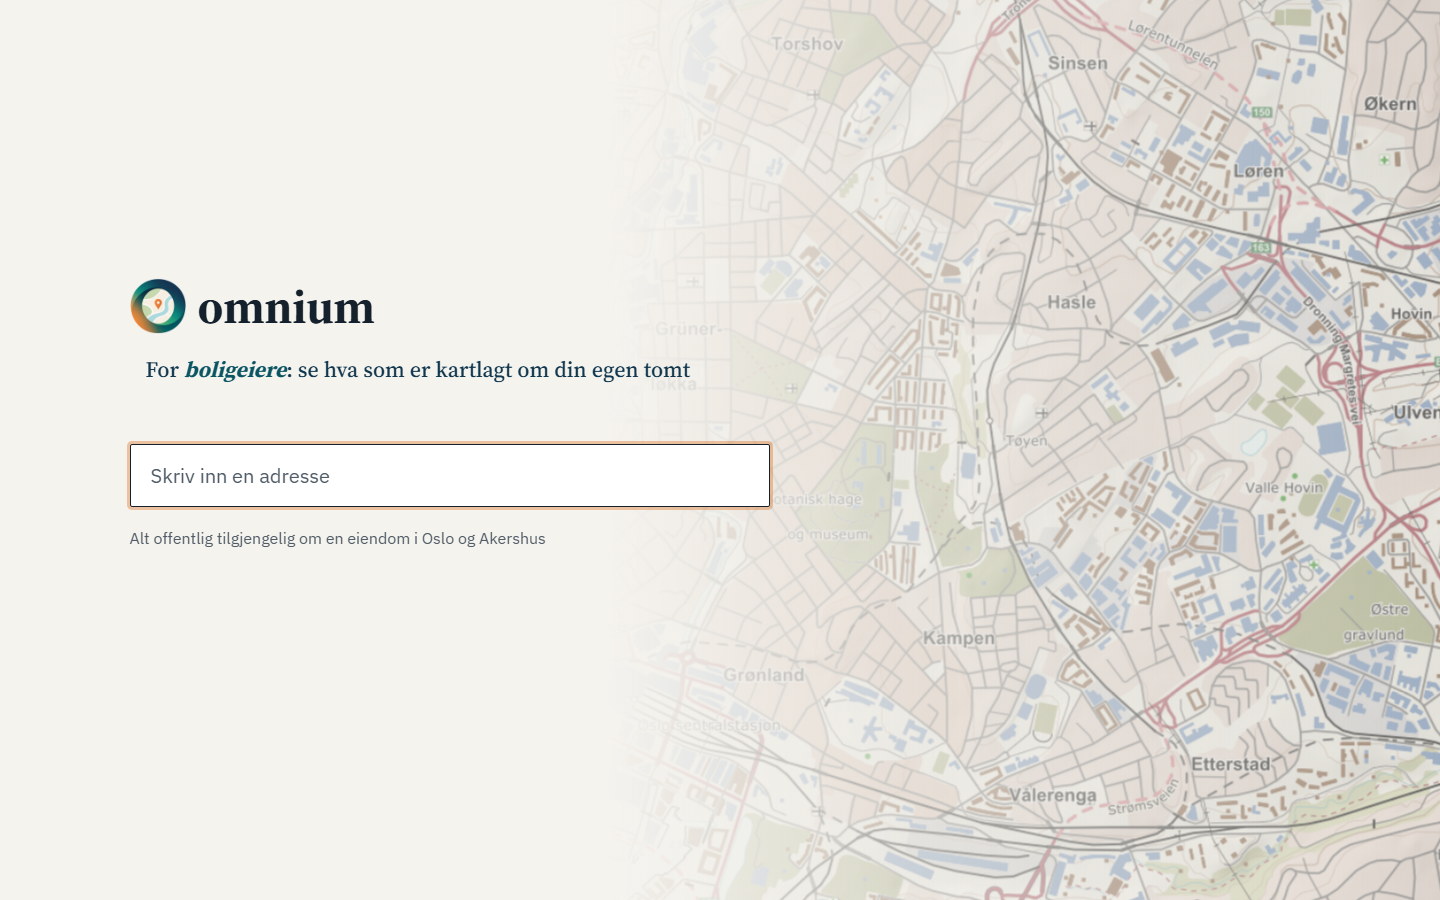
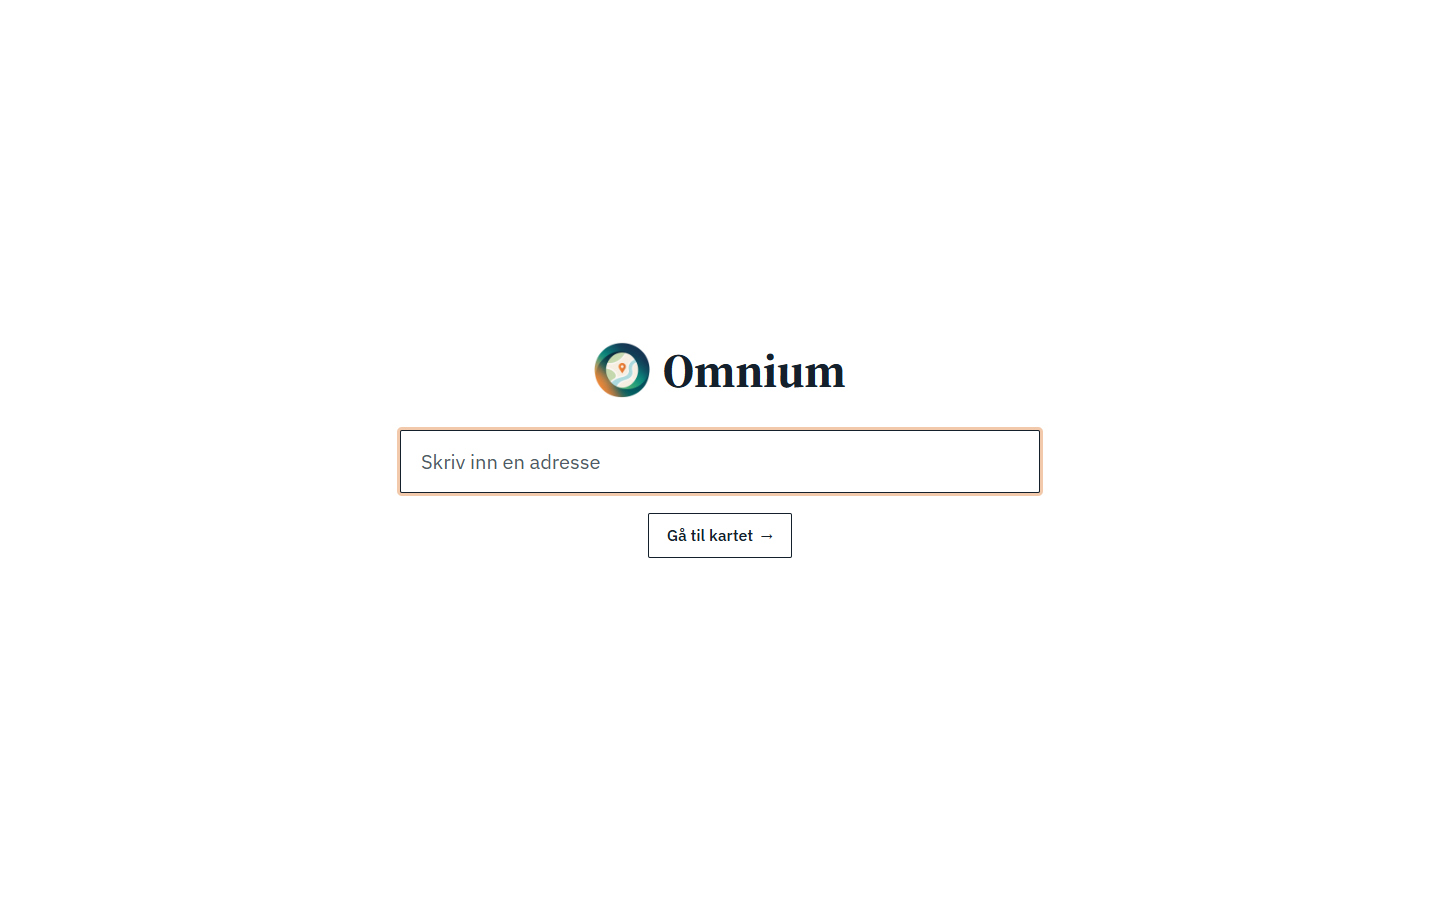
DEMO.md and TEST_ADDRESSES.md: new scores (60 vs 14) and screenshots 1-5
Done for Even by Sverre. Grevlingåsen is now 60 (radon, plus a low
warning for NVE's quick-clay awareness area), Arendalsgata 14. Pitch,
address table, readiness table, timing, AI-summary check, "tretti
datasett" and setup time updated. Perspective tabs are on the page, so
the perspective line is no longer conditional. All five screenshots
retaken with Edge (new start page, perspective tabs, Kartlag open in 5).

diff --git a/docs/DEMO.md b/docs/DEMO.md
@@ -12,11 +12,11 @@ Two homes, both in Bærum/Oslo, both near a bus and a school. On paper they look
 
 | Role | Address | Id | What it shows |
 |---|---|---|---|
-| Start: the calm case | Grevlingåsen 17, 1362 Hosle | `3201-1574-17` | Overall **67**, held down a little by one warning: høy radonaktsomhet (Grunn og geologi 33, the weakest category). Naturfare 100: no rockfall, debris-slide, avalanche or storm-surge area, no noise zone. NVE has not mapped quick clay or flood here, so both show "Ikke kartlagt her" (neutral, not scored). Busiest stop within 500 m: Jegeråsen, 212 m, 161 departures a weekday. School 256 m, kindergarten 226 m. Perspectives: Bo her 64, Bygge her 65, Familie 67, Pendler 91. |
-| Contrast: the hidden risk | Arendalsgata 22, 0463 Oslo | `0301-10223-22` | Overall **13**, held down by three serious warnings: quick-clay zone with faregrad **høy** (NVE), meget høy radonaktsomhet and road noise 65–70 dB. Also marine clay and a polluted-ground site 17 m away. Naturfare 24. Nearest stop 31 m, kindergarten 40 m, school 146 m. Busiest stop within 500 m: Sagene, 1154 departures. Perspectives: Bo her 13, Bygge her 15, Familie 13, **Pendler 100**. |
-| Backup / extra | Nedre Rælingsveg 148, 2005 Rælingen | `3224-8900-148` | Overall 49. Two warnings: 200-year flood zone and red road noise zone. Perspectives: Bo her 46, Bygge her 62, Familie 46, Pendler 89. |
+| Start: the calm case | Grevlingåsen 17, 1362 Hosle | `3201-1574-17` | Overall **60**, capped by one warning: høy radonaktsomhet (Grunn og geologi 31, the weakest category). One smaller warning ("Merk"): it lies in NVE's coarse **aktsomhetsområde for kvikkleireskred**, so the ground should be checked before building; NGU says "Ofte marin leire". It is *not* in a quick-clay hazard zone: NVE has made no hazard-zone map for quick clay or flood here, so both show "Ikke kartlagt her" (neutral, not scored). Naturfare 92: no flood-awareness, rockfall, debris-slide, avalanche or storm-surge area; no road, rail or aircraft noise zone. Busiest stop within 500 m: Jegeråsen, 212 m, 161 departures a weekday. School 256 m, kindergarten 226 m, Kiwi Hosle 519 m. Neighbourhood: Hosle nord 06, 220 people. Perspectives: Bo her 64, Bygge her 59, Familie 66, Pendler 91. |
+| Contrast: the hidden risk | Arendalsgata 22, 0463 Oslo | `0301-10223-22` | Overall **14**, held down by three serious warnings: quick-clay zone "Myraløkka" with faregrad **høy** (NVE), meget høy radonaktsomhet and road noise 65–70 dB. Smaller warnings: marine clay ("Svært ofte marin leire"), quick-clay awareness area, a polluted-ground site 17 m away. Naturfare 24. Nearest stop 31 m, kindergarten 40 m, school 146 m, Extra Bjølsen 92 m, pharmacy 167 m. Busiest stop within 500 m: Sagene, 1154 departures. Perspectives: Bo her 15, Bygge her 15, Familie 16, **Pendler 100**. |
+| Backup / extra | Nedre Rælingsveg 148, 2005 Rælingen | `3224-8900-148` | Overall 51. Two serious warnings: 200-year flood zone and red road noise zone; smaller: flood and quick-clay awareness areas. Perspectives: Bo her 50, Bygge her 56, Familie 52, Pendler 89. |
 
-Numbers above are from the profile on 2026-11-07, after Lukas's soft caps and perspective scores. Check them again before the demo (see checklist): they change when data or the rating changes.
+Numbers above are from the profile on 2026-11-07 (afternoon), after Sverre's new datasets (quick-clay and flood awareness, marine clay, rail and aircraft noise, shops, pharmacies, doctors, grunnkrets population) and Lukas's perspective weights. Check them again before the demo (see checklist): they change when data or the rating changes.
 
 ## Pitch (about 3 minutes)
 
@@ -32,7 +32,7 @@ Times are a guide. Bold = what you click or show.
 
 **0:45–1:30 — Det rolige eksempelet: Grevlingåsen 17**
 **Type "Grevlingåsen 17", pick the one in 1362 Hosle.** There is also a Grevlingåsen 17 in 1386 Asker: don't pick that one.
-> Her er et vanlig hus på Hosle i Bærum. Samlet karakter 67. Det ligger ikke i aktsomhetsområder for skred og ikke i støysone. Kvikkleire og flom har NVE ikke kartlagt her, og det står rett ut på siden. Den eneste advarselen er høy aktsomhet for radon. Nærmeste skole er 256 meter unna i luftlinje, og fra Jegeråsen, 212 meter unna, går det 161 avganger på en vanlig hverdag.
+> Her er et vanlig hus på Hosle i Bærum. Samlet karakter 60. Det ligger ikke i støysone, og ikke i aktsomhetsområder for flom eller steinsprang. Faresoner for kvikkleire har NVE ikke laget her, og det står rett ut på siden. Men NVE sitt grovere aktsomhetskart sier at kvikkleireskred er mulig i området, så grunnen bør sjekkes før man bygger. Den viktigste advarselen er høy aktsomhet for radon. Skolen er 256 meter unna, og fra Jegeråsen, 212 meter unna, går det 161 avganger på en hverdag.
 **Point at the category cards, then open one data point to show its source and explanation.**
 > Alt vi viser har en kilde. Og vi forklarer hva det betyr for den som bor der.
 
@@ -41,13 +41,13 @@ Times are a guide. Bold = what you click or show.
 > Så ser vi en adresse på Sagene i Oslo. Enda nærmere buss og skole. Men øverst ser du advarsler, den alvorligste først: eiendommen ligger i en faresone for kvikkleireskred med høy faregrad, fra NVE. I tillegg meget høy aktsomhet for radon, veistøy på 65–70 dB og et registrert sted med mulig forurenset grunn i nærheten.
 **Point at the warnings and the low Naturfare score, then at the red quick-clay zone around the pin on the map (screenshot 5).**
 **Point at the score and the warnings listed under it.**
-> Samlet karakter faller fra 67 til 13, og naturfare fra 100 til 24. Og siden sier hvorfor: kvikkleiren, radon og støy holder karakteren nede. Den alvorligste risikoen står alltid først, og den kan ikke gjemmes i et snitt.
+> Samlet karakter faller fra 60 til 14, og naturfare fra 92 til 24. Og siden sier hvorfor: kvikkleiren, radon og støy holder karakteren nede. Den alvorligste risikoen står alltid først, og den kan ikke gjemmes i et snitt.
 > Og Arendalsgata er ikke alene: over 4 200 adresser i Oslo og Akershus ligger i en faresone for kvikkleireskred med høy eller middels faregrad, 433 av dem med høy faregrad.
 
 Where the number comes from (Sverre, 2026-11-07): all 362 241 street addresses in Oslo + Akershus (Kartverket, Matrikkelen Adresse) checked against our `nve_kvikkleire` table, each address counted once under its worst faregrad: 433 høy + 3 842 middels = 4 275, about 1 in 85. Say "adresser", never "boliger" or "hus".
 
-**Only if the perspective cards are on the page (Erik, `PLAN.md` item 8):** point at them on Arendalsgata and add:
-> Og svaret avhenger av hvem du er. For en pendler får adressen 100. For å bo her får den 13.
+**Optional (the "Hva betyr dette for deg?" tabs are on the page):** on Arendalsgata, click the **Pendler** tab, then **Bo her**, and add:
+> Og svaret avhenger av hvem du er. For en pendler får adressen 100. For å bo her får den 15.
 
 **2:15–2:40 — Ærlighet om data**
 **Open Miljø on Grevlingåsen: "Veistøy (strategisk støykart)" shows "Ikke tilgjengelig" (screenshot 3).**
@@ -66,21 +66,21 @@ What the pitch needs, and who it depends on. Update this as things land.
 
 | Needed for the pitch | Status 2026-11-07 (checked in the app) | Owner |
 |---|---|---|
-| Profile data for both addresses (quick clay, flood, noise, polluted ground, stops, schools, kindergartens, trails, SSB) | Works | Sverre, Even, Lukas |
+| Profile data for both addresses (quick clay incl. awareness areas and marine clay, flood incl. awareness areas, road/rail/aircraft noise, polluted ground, stops, schools, kindergartens, shops, pharmacies, doctors, trails, grunnkrets population, SSB) | Works (36 data points) | Sverre, Even, Lukas |
 | Start page with address search | Works. Search shows two Grevlingåsen 17: pick 1362 Hosle | Erik |
 | Address page: warnings, category cards, data points with source | Works | Erik |
 | "Ikke tilgjengelig" for missing data | Works (e.g. "Veistøy (strategisk støykart)" under Miljø on Grevlingåsen) | Erik |
 | Quick-clay zone visible on the map | Works: quick-clay and flood zones on the address map, on by default, with a "Kartlag" panel | Erik |
-| Overall rating (a number) | Works: Grevlingåsen 67, Arendalsgata 13 (soft caps: a capped score is scaled into the cap, see `docs/PROFILE.md`) | Lukas |
-| Perspective scores (Bo her, Bygge her, Familie, Pendler) | In the profile. Not on the page yet | Erik |
+| Overall rating (a number) | Works: Grevlingåsen 60, Arendalsgata 14 (soft caps: a capped score is scaled into the cap, see `docs/PROFILE.md`) | Lukas |
+| Perspective scores (Bo her, Bygge her, Familie, Pendler) | Works: "Hva betyr dette for deg?" tabs under the warnings, with "Hva trekker ned" | Erik |
 | Explanations under each data point | Works: main text and the matching "Når ..." text from `docs/TEXTS.md` | Lukas |
-| AI summary | Works. Checked with the key on 2026-11-07: Arendalsgata names the quick clay first, Grevlingåsen invents nothing and says NVE has not mapped quick clay or flood there. Without the key the card shows the fact sentences | Erik, Lukas |
+| AI summary | Works. Rechecked with the key on 2026-11-07 afternoon (new data means new summaries): Arendalsgata names the quick-clay zone first; Grevlingåsen invents nothing, names the quick-clay awareness area, radon and marine clay, and says NVE has no hazard-zone map for quick clay or flood there. It now sits below the "Hva betyr dette for deg?" tabs. Without the key the card shows the fact sentences | Erik, Lukas |
 | "Område" card | Works: shows "Kun fakta" (information only, no score) | Lukas, Erik |
 | Map tiles | Take 3–5 seconds to appear the first time. Open both pages before presenting | — |
 
 For the 2:15 part, open Miljø on Grevlingåsen: the strategic noise map shows "Ikke tilgjengelig".
 
-Timing: the spoken text is about 315 words (about 325 with the perspective line), about 2:25 at a calm pace, which leaves about 45 seconds for typing and clicks. The two address parts are the tightest (about 85 words in 45 seconds): keep talking while the page loads. If time runs short, drop the perspective line first, then the "4 200 adresser" line.
+Timing: the spoken text is about 330 words (about 340 with the perspective line), about 2:30 at a calm pace, which leaves about 30–40 seconds for typing and clicks. The two address parts are the tightest (Grevlingåsen is about 95 words in 45 seconds): keep talking while the page loads. If time runs short, drop the perspective line first, then the "4 200 adresser" line.
 
 ## Questions the judges may ask
 
@@ -92,7 +92,7 @@ Short answers in Norwegian, ready to say. Agree on the business-model answer as 
 **Hvor ferske er dataene?**
 > Vi henter dem direkte fra NVE, NGU, Kartverket, Entur og de andre, og kan bygge databasen på nytt med én kommando. Hver kilde har sin egen oppdateringstakt, og vi viser hvilken kilde hvert tall kommer fra.
 
-Note: there is no automatic refresh yet. Rebuilding is `npm run setup` (about 4 minutes).
+Note: there is no automatic refresh yet. Rebuilding is `npm run setup` (was about 4 minutes; the afternoon datasets add several more, see the checklist).
 
 **Hvordan regner dere ut karakteren?**
 > Hver kategori får en karakter fra datapunktene. Alvorlige advarsler setter et tak, så en kvikkleiresone kan ikke jevnes ut av at det er kort vei til bussen. Og vi viser alltid hvorfor: hvilke advarsler som holder karakteren nede.
@@ -106,7 +106,7 @@ Most høy by municipality: Lillestrøm 122, Ullensaker 80, Nannestad 67, Oslo 53
 > AI-en får bare faktasetningene vi har laget fra dataene, og skal bare bruke dem. Vi har sjekket sammendraget for alle testadressene. Hvis AI-en ikke svarer, viser vi faktasetningene i stedet.
 
 **Hvorfor ikke bare bruke Norgeskart eller NVE sine kart?**
-> De kartene er gode, men hvert av dem viser ett tema, og de er laget for fagfolk. Omnium samler nitten datasett for én adresse, forklarer hva de betyr, og sier ærlig fra når et område ikke er kartlagt.
+> De kartene er gode, men hvert av dem viser ett tema, og de er laget for fagfolk. Omnium samler rundt tretti datasett for én adresse, forklarer hva de betyr, og sier ærlig fra når et område ikke er kartlagt.
 
 **Hva skal til for å dekke hele Norge?**
 > De fleste kildene våre er nasjonale. I dag klipper vi dem til Oslo og Akershus. For hele landet er det mest et spørsmål om mer data og en kraftigere server, ikke ny kode.
@@ -130,7 +130,7 @@ Note: Haiku costs about $0.0005 per address (`PLAN.md`), cached in the database.
 ## Checklist before presenting
 
 **The day before**
-- [ ] Pull `main` on the demo laptop and run `npm run setup` (fresh database with every dataset). Tested from a fresh clone on 2026-11-07: about 4 minutes and ~500 MB of downloads, no errors. Stop `npm run dev` first.
+- [ ] Pull `main` on the demo laptop and run `npm run setup` (fresh database with every dataset). Tested from a fresh clone on 2026-11-07: about 4 minutes and ~500 MB of downloads, no errors. Sverre's afternoon datasets add time (flood awareness and marine clay alone took 5.5 minutes on his PC; the full setup is not re-timed), so allow 15 minutes. Stop `npm run dev` first.
 - [ ] Open both demo addresses and check the numbers in "The two addresses" table. Update the pitch if they changed.
 - [ ] Read the AI summary for both addresses (if it works). It must mention the quick clay for Arendalsgata and invent nothing for Grevlingåsen.
 - [ ] Take the screenshots (below) as a backup.
@@ -156,12 +156,12 @@ Note: Haiku costs about $0.0005 per address (`PLAN.md`), cached in the database.
 Saved in `docs/demo/` at 1440×900. Retake them after big changes (headless Edge works: `msedge --headless=new --window-size=1440,900 --virtual-time-budget=15000 --screenshot=<file> <url>`).
 
 1. `1-start.png`: the start page with the empty address field. **Taken.**
-2. `2-grevlingasen.png`: the Grevlingåsen 17 page, top part (no warnings, scores). **Taken** (score 67, editorial theme).
-3. `3-data-point.png`: the Miljø card opened on Grevlingåsen, with explanations, sources and one "Ikke tilgjengelig". **Taken.** It also covers 6.
-4. `4-arendalsgata.png`: the Arendalsgata 22 page with the quick-clay warning at the top. **Taken** (score 13, quick-clay zone, AI summary).
-5. `5-map.png`: the map with the quick-clay zone around Arendalsgata. **Taken.**
+2. `2-grevlingasen.png`: the Grevlingåsen 17 page, top part: score 60, the radon and quick-clay-awareness warnings, and the "Hva betyr dette for deg?" tabs. **Taken.**
+3. `3-data-point.png`: the Miljø card opened on Grevlingåsen (road, rail and aircraft noise, polluted ground), with explanations, sources and one "Ikke tilgjengelig". **Taken.** It also covers 6.
+4. `4-arendalsgata.png`: the Arendalsgata 22 page with the quick-clay warning at the top, score 14 and the perspective tabs. **Taken.**
+5. `5-map.png`: the same page with the Kartlag panel open, so the legend explains the red quick-clay zone around the pin. **Taken.**
 6. `6-missing.png`: a data point shown as "Ikke tilgjengelig". Covered by 3.
 
-All five retaken on 2026-11-07 after Erik's editorial theme. Retake 2 and 4 again once Erik's perspective cards are on the page.
+All five retaken on 2026-11-07 afternoon by Sverre (new data and scores, Erik's new start page and perspective tabs), with Edge driven by `playwright-core`, waiting 12 s per page.
 
 Tip: headless Edge with `--virtual-time-budget` sometimes captures the map before the hazard layers load. Driving Edge over `--remote-debugging-port` and waiting about 12 seconds per page works every time. Check that the URL is the port Vite printed: if another dev server holds 5173, you get an error page instead.

diff --git a/docs/TEST_ADDRESSES.md b/docs/TEST_ADDRESSES.md
@@ -19,8 +19,8 @@ The id is the address id from `docs/PROFILE.md` (`<kommunenummer>-<adressekode>-
 
 | Case | Address | Id | Kommune (nr) | lat | lng | Expected result |
 |---|---|---|---|---|---|---|
-| Quick clay | Kjelsåsveien 162, 0491 Oslo | `0301-13747-162` | Oslo (0301) | 59.965764 | 10.776008 | Quick clay zone "Kjelsås", faregrad Middels. App on 2026-11-07: overall 64, warnings quick clay (middels), høy radon, strategic noise 55–60 dB |
-| Flood zone | Strandvegen 81, 2005 Rælingen | `3224-11700-81` | Rælingen (3224) | 59.947770 | 11.047739 | Inside 200-year flood zone `fs002_37`, and also inside the **20-year** flood zone (NVE `Flomsoner2` layer 14, checked 2026-11-07). The app shows only "I 20-årsflomsone": the most frequent zone wins. Overall 31 (a 20-year flood zone is a high warning since 2026-11-07, TEK17 §7-2). Also inside a yellow road noise zone (checked 2026-11-07) |
+| Quick clay | Kjelsåsveien 162, 0491 Oslo | `0301-13747-162` | Oslo (0301) | 59.965764 | 10.776008 | Quick clay zone "Kjelsås", faregrad Middels. App on 2026-11-07 afternoon: overall 47, warnings quick clay (middels), høy radon, strategic noise 55–60 dB, plus low warnings for marine clay, quick-clay and flood awareness areas and polluted ground |
+| Flood zone | Strandvegen 81, 2005 Rælingen | `3224-11700-81` | Rælingen (3224) | 59.947770 | 11.047739 | Inside 200-year flood zone `fs002_37`, and also inside the **20-year** flood zone (NVE `Flomsoner2` layer 14, checked 2026-11-07). The app shows only "I 20-årsflomsone": the most frequent zone wins. Overall 32 on 2026-11-07 afternoon (a 20-year flood zone is a high warning since 2026-11-07, TEK17 §7-2). Also inside a yellow road noise zone (checked 2026-11-07) |
 
 ## Source endpoints used
 
@@ -65,8 +65,9 @@ Radon checked against NGU's map service **`RadonUranAktsomhetWMS`**, layer `Rado
 - Ski tracks at #5: Turrutebasen (`turruter`) has a trail 45 m away but the nearest ski track 1.2 km away (TRY-løypa). Turrutebasen lacks most Nordmarka ski tracks, so this does not show the ski area well.
 - Polluted ground (`grunnforurensning`) on 2026-11-07: #1 has a registered site 17 m away ("Arendalsgata 3-22", påvirkningsgrad 2: acceptable with today's use). The others have none within 100 m.
 - Radon and soil type (from Sverre's `radon` and `losmasser`) on 2026-11-07: #1 meget høy radon, marine clay (hav- og fjordavsetning). #2 middels radon, fluvial deposit. #3 meget høy radon. #4 høy radon, fill (fyllmasse). #5 høy radon, bare rock. **Checked against NGU on 2026-11-07: all 5 match** for both radon and soil type (see "Radon and soil checked against NGU" below).
-- Overall rating on 2026-11-07 (after Lukas's soft caps: a capped score is scaled into the cap, not cut at it): #1 13, #2 49, #3 49, #4 67, #5 63. Backups: Kjelsåsveien 162 46, Strandvegen 81 31.
-- Perspective scores on 2026-11-07 (Bo her / Bygge her / Familie / Pendler): #1 13/14/13/100, #2 45/61/46/89, #3 41/62/39/100, #4 64/63/67/91, #5 58/63/53/80. Backups: Kjelsåsveien 162 47/35/48/100, Strandvegen 81 29/31/30/81.
+- Overall rating on 2026-11-07 afternoon (soft caps, plus Sverre's new datasets and Lukas's perspective weights): #1 14, #2 51, #3 52, #4 60, #5 61. Backups: Kjelsåsveien 162 47, Strandvegen 81 32. #4 fell from 67 because it lies in NVE's quick-clay awareness area (low warning); #5 is now slightly above #4 because #4 has that extra warning.
+- Perspective scores on 2026-11-07 afternoon (Bo her / Bygge her / Familie / Pendler): #1 15/15/16/100, #2 50/56/52/89, #3 49/67/47/100, #4 64/59/66/91, #5 56/68/52/80. Backups: Kjelsåsveien 162 52/35/54/100, Strandvegen 81 32/29/34/81.
+- New low warnings on 2026-11-07 afternoon: quick-clay awareness area for #1, #2, #4 and both backups; flood awareness area for #2 and both backups.
 - NVE mapping coverage (`nve_kartlagt`) on 2026-11-07: #3, #4 and #5 are outside both NVE's quick-clay and flood mapping ("Ikke kartlagt her"). #1 is inside the quick-clay mapping but outside the flood mapping. #2 and Strandvegen 81 are inside both.
 - Storm surge (Sverre's `stormflo`) on 2026-11-07: none of the 5 addresses or the backups is in a storm-surge zone.
 - Busiest stop within 500 m (`transitDepartures`): #1 Sagene 1154, #2 Lillestrøm stasjon 363, #3 Sandvika stasjon 444, #4 Jegeråsen 161 (212 m), #5 Frognerseteren 76.
@@ -77,6 +78,6 @@ Radon checked against NGU's map service **`RadonUranAktsomhetWMS`**, layer `Rado
 
 ## How to use
 
-- **Profile / rating:** each address should show the expected result above. #4 should score best on hazards and noise.
+- **Profile / rating:** each address should show the expected result above. #4 and #5 should score best on hazards (#5 Naturfare 100; #4 92 since 2026-11-07 afternoon because of its quick-clay awareness area) and #4 on noise (Miljø 100).
 - **AI summary:** read the summary for each address. It must mention the hazard for #1–#3 and must **not** invent hazards for #4 and #5.
 - **Demo:** #1 against #4 makes a clear contrast.
